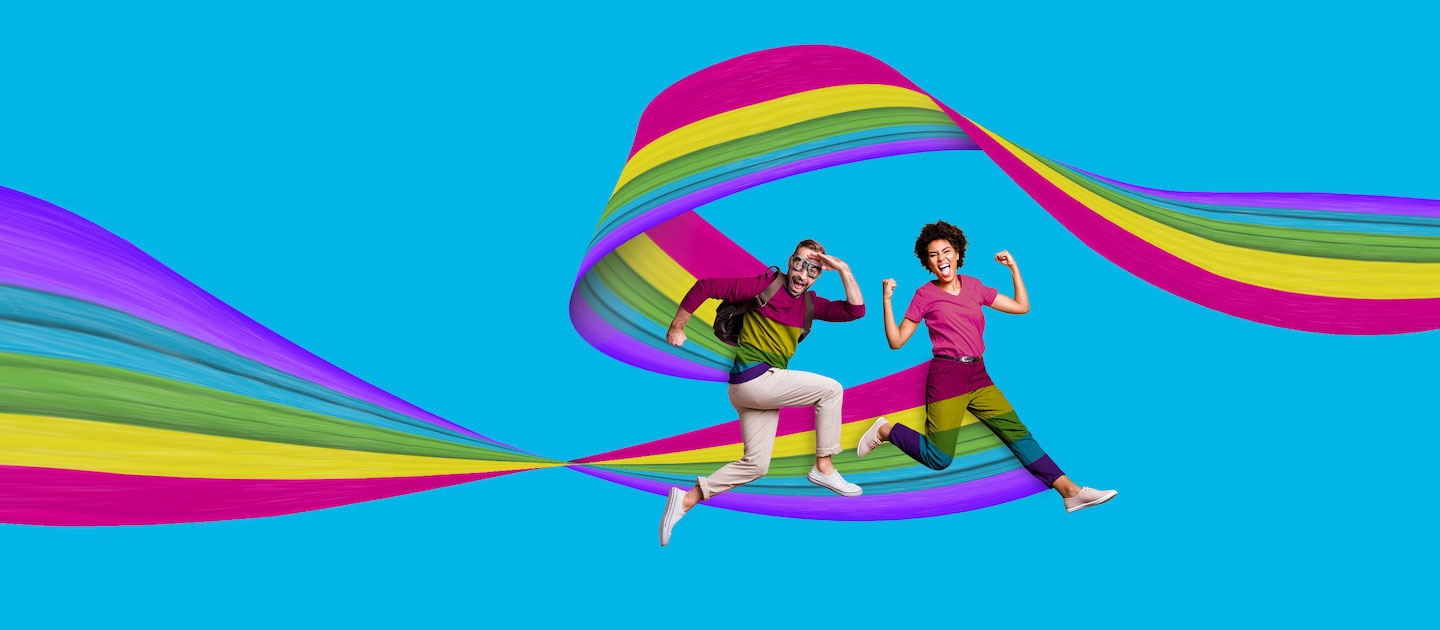
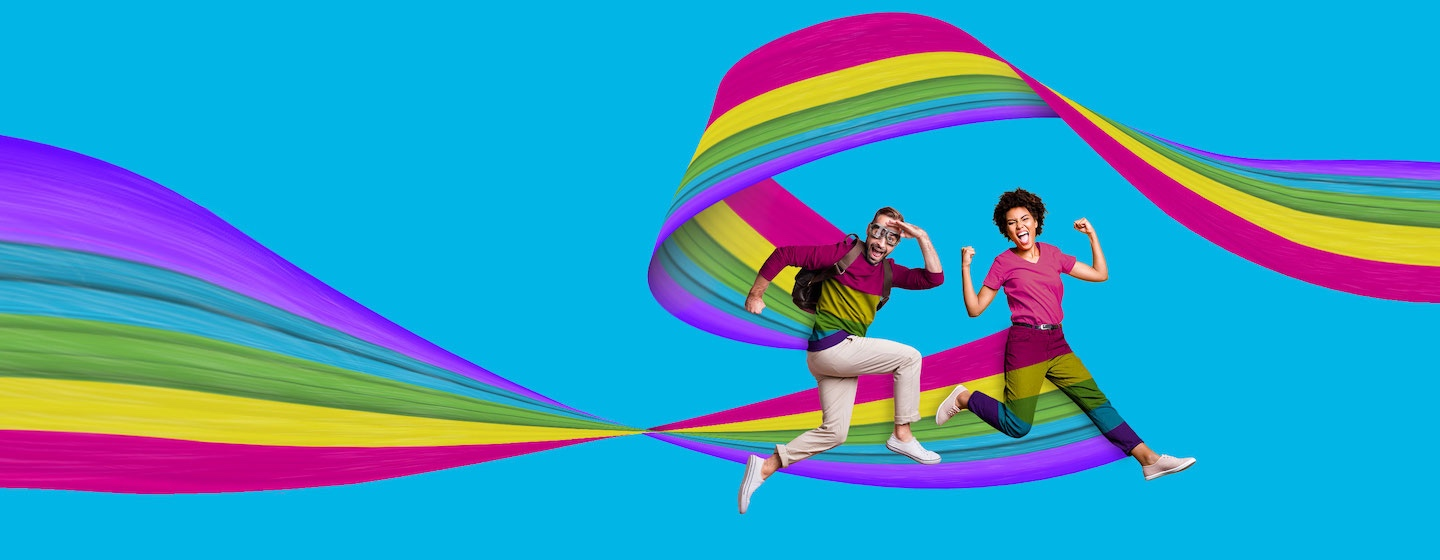
Tweak bg images for processes

diff --git a/app/packs/stylesheets/decidim/zukunftsprozess/processes.scss b/app/packs/stylesheets/decidim/zukunftsprozess/processes.scss
@@ -35,7 +35,30 @@
     background-color: #76b82a;
 
     main {
-      background-image: url("~images/assemblies_1200.png");
+      @include breakpoint(small){
+        background-image: url("~images/assemblies_640.jpg");
+        background-position: center 30px;
+      }
+
+      @include breakpoint(medium){
+        background-image: url("~images/assemblies_1024.jpg");
+        background-position: center 30px;
+      }
+
+      @include breakpoint(large){
+        background-image: url("~images/assemblies_1200.jpg");
+        background-position: center 30px;
+      }
+
+      @include breakpoint(xlarge){
+        background-image: url("~images/assemblies_1440.jpg");
+        background-position: center 30px;
+      }
+
+      @include breakpoint(xxlarge){
+        background-image: url("~images/assemblies_2560.jpg");
+        background-position: center 30px;
+      }
     }
   }
 
@@ -44,12 +67,11 @@
   }
 
   &.ideas {
-
     main {
-      // @include breakpoint(small){
-      //   background-image: url("~images/ideas_810.png");
-      //   background-position: center 230px;
-      // }
+      @include breakpoint(small){
+        background-image: url("~images/ideas_640.jpg");
+        background-position: center 30px;
+      }
 
       @include breakpoint(medium){
         background-image: url("~images/ideas_1024.jpg");
@@ -70,7 +92,6 @@
         background-image: url("~images/ideas_2560.jpg");
         background-position: center 30px;
       }
-
     }
 
     .collection-sort-controls {
@@ -98,7 +119,7 @@
     background-color: #551285;
 
     main {
-      background-image: url("~images/processes_1200.png");
+      // background-image: url("~images/processes_1200.png");
     }
 
     label {
